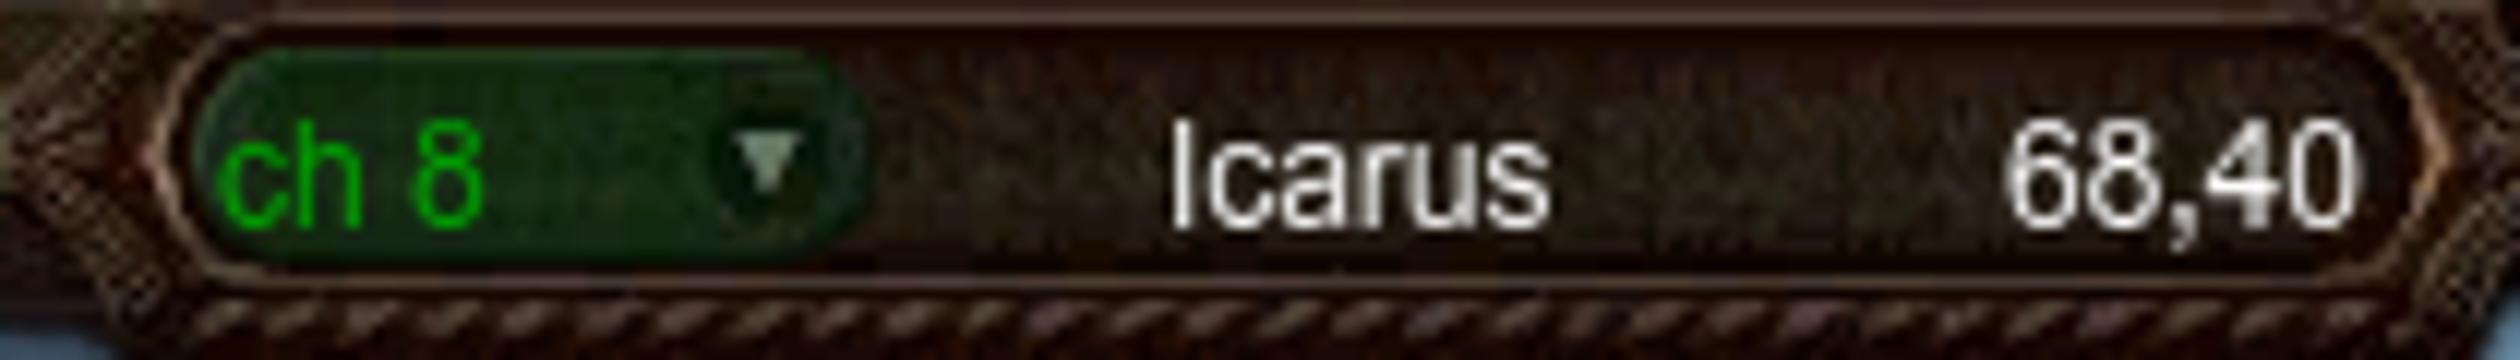
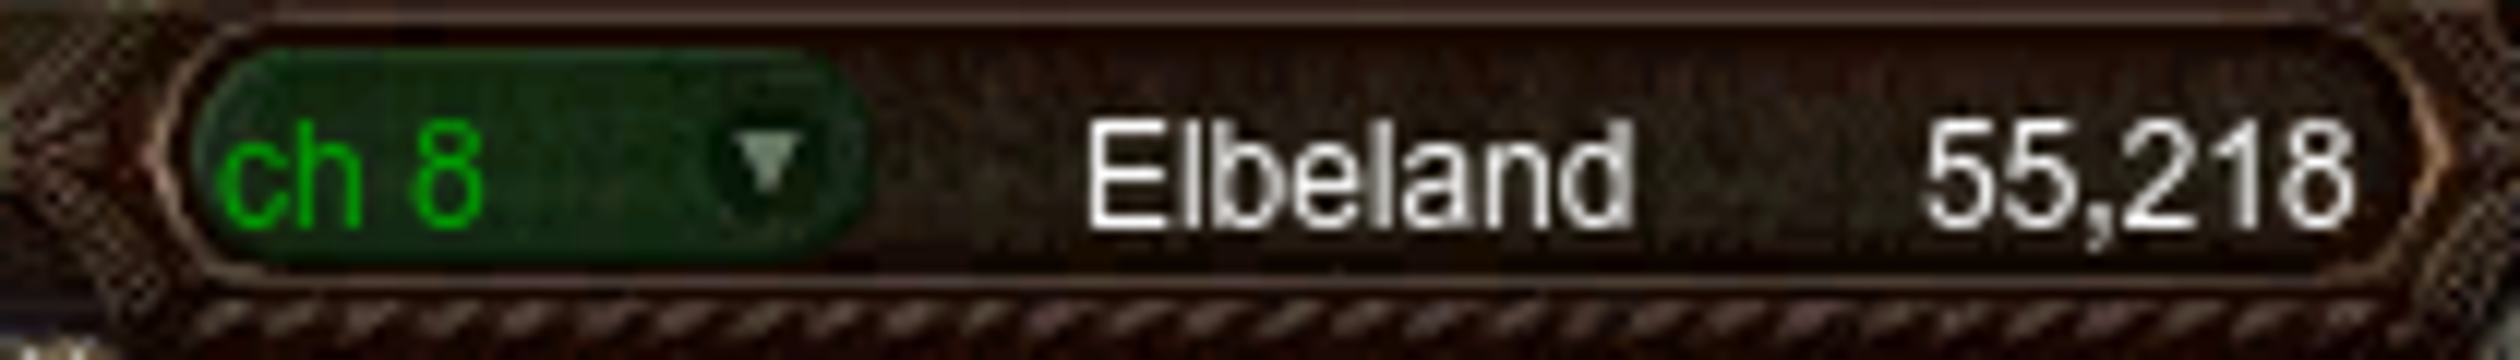
Upload map spots images from MuonlineFanz website

diff --git a/run.py b/run.py
@@ -44,13 +44,14 @@ while(True):
         joinArray = ' '.join(cleanArray).strip()
         name = joinArray.split(' ')[0]
         coord = joinArray.split(' ')[1]
-        print(f'{Fore.GREEN}Text collected: {name} -- Coordinates: {coord}{Style.RESET_ALL}')
-        print(f'{Fore.YELLOW}Map spots image: {mapHandle.get_location(name.lower())}{Style.RESET_ALL}')
+        print(f'{Fore.GREEN}Name:{Fore.WHITE} {name}')
+        print(f'{Fore.GREEN}Coordinates:{Fore.WHITE} {coord}')
+        print(f'{Fore.YELLOW}Map spots image:{Fore.WHITE} {mapHandle.get_location(name.lower())}{Style.RESET_ALL}')
     else:
         print(f'{Fore.RED}No map name visible.{Style.RESET_ALL}')
 
     time.sleep(int(config["SETTINGS"]["wait_interval"]))
 
     elapsed_time = time.time() - start_time
-    print(f'{Fore.BLUE}Elapsed time: {elapsed_time:.2f} seconds{Style.RESET_ALL}\n')
+    print(f'{Fore.BLUE}Elapsed time:{Fore.WHITE} {elapsed_time:.2f} seconds{Style.RESET_ALL}\n')
 

diff --git a/app.py b/app.py
@@ -53,8 +53,8 @@ class MainWindow(QMainWindow):
         app.setPalette(dark_palette)
         
         # Create main window
-        self.setWindowTitle("Discord Clone")
-        self.setGeometry(100, 100, 700, 500)
+        self.setWindowTitle("Muonline Hunting Assistant")
+        self.setGeometry(100, 100, 600, 500)
 
         # Create status bar
         status_bar = QStatusBar()
@@ -69,7 +69,7 @@ class MainWindow(QMainWindow):
 
         # Add the first image label to the layout
         image_label1 = QLabel(self)
-        image1 = QPixmap("images/spots/map_spots.png")
+        image1 = QPixmap("images/spots/lorencia.png")
         image_label1.setPixmap(image1)
         layout.addWidget(image_label1)
 
